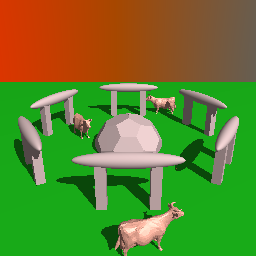
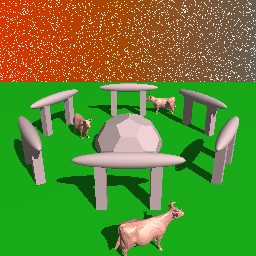
A4: Submittable

diff --git a/A4/A4.cpp b/A4/A4.cpp
@@ -28,7 +28,7 @@ vec3 randUnitVector(){
 		randVec.y = rand_float();
 		randVec.z = 0.0f;
 
-	}while(length(randVec) >= 1.0f);
+	}while(length2(randVec) >= 1.0f);
 	return randVec;
 }
 
@@ -172,7 +172,7 @@ void A4_Render(
 
 			// Anti-Aliasing
 			if (ANTI_ALIASING >= 1 ){
-				size_t samplesPerPixel = 15;
+				size_t samplesPerPixel = 5;
 				for (int i =0;i < samplesPerPixel;++i){
 					ray.setDirection(dirVec + randUnitVector() * (uVec +vVec) * 0.5);
 					pixelColorVec += rayTraceRGB(root,ray,eye,ambient,lights);

diff --git a/A4/README.md b/A4/README.md
@@ -1,0 +1,21 @@
+# A4 read me
+    
+## Compilation
+The program is located in the downloads folder. As a result, you have to **cd** into **~/Downloads/cs488/A4** .
+To run the program with sample.lua script eg simple.lua perform following operations:
+    $ premake4 gmake
+    $ make
+    $ ./A4 Assets/sample.lua
+output is sample.png in **~/Downloads/cs488/A4** 
+
+## Note
+- OBJ files need to be prefixed with **Assets/** in order to run lua scripts
+- **screenshot.png** uses anitialiasing/supersampling
+- **sample.png** samples per pixel reduced compared to **screenshot.png**
+
+## Manual
+- Anti-Aliasing implemented.
+- To run anti aliasing, **ANTI_ALIASING** is a macro defined in **~/Downloads/cs488/A4/A4.cpp**, set to 1 for anti-aliasing and 0 otherwise
+
+- Bounding spheres implemented.
+- To run bounding spheres, **RENDER_BOUNDING_VOLUMES** is a macro defined in **~/Downloads/cs488/A4/Mesh.hpp**, set to 1 for bounding sphere and 0 otherwise
